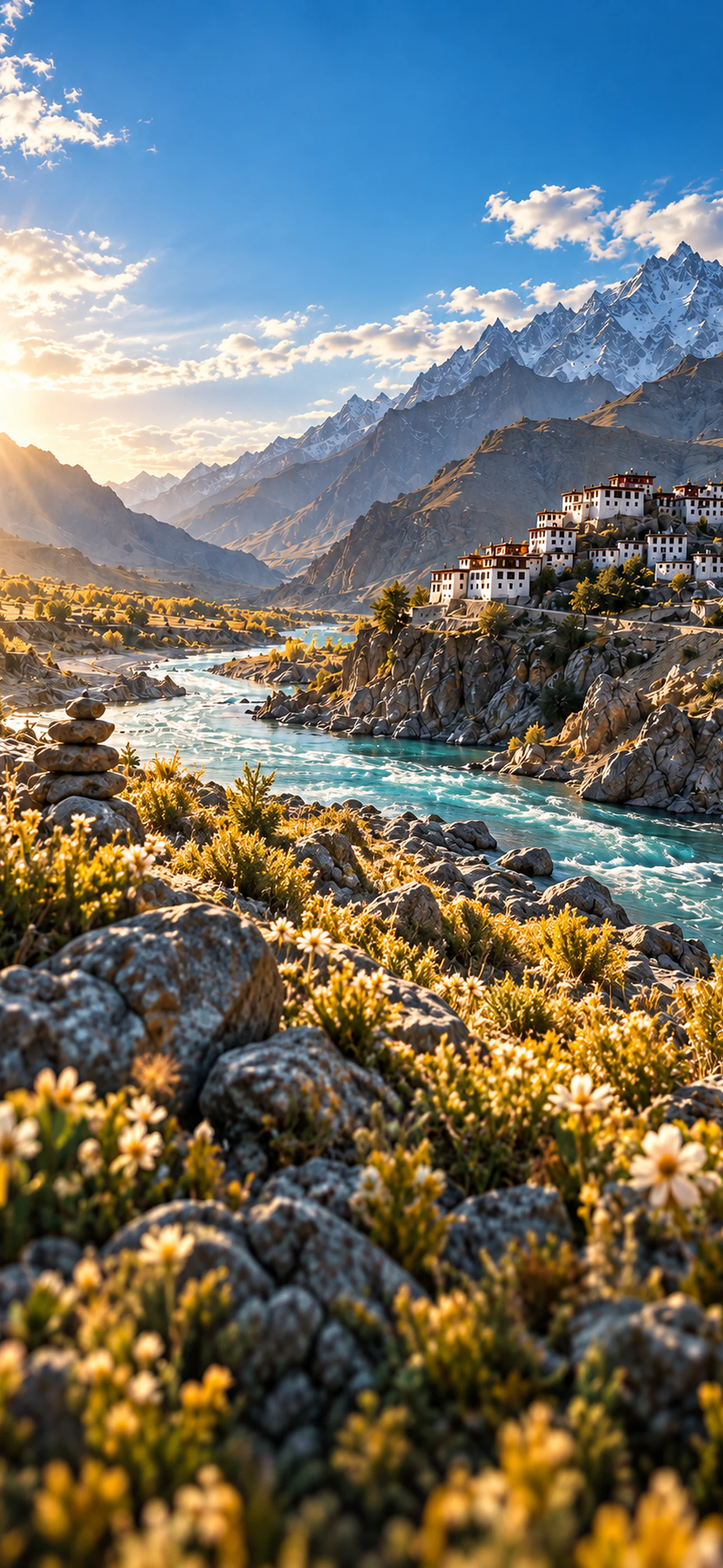
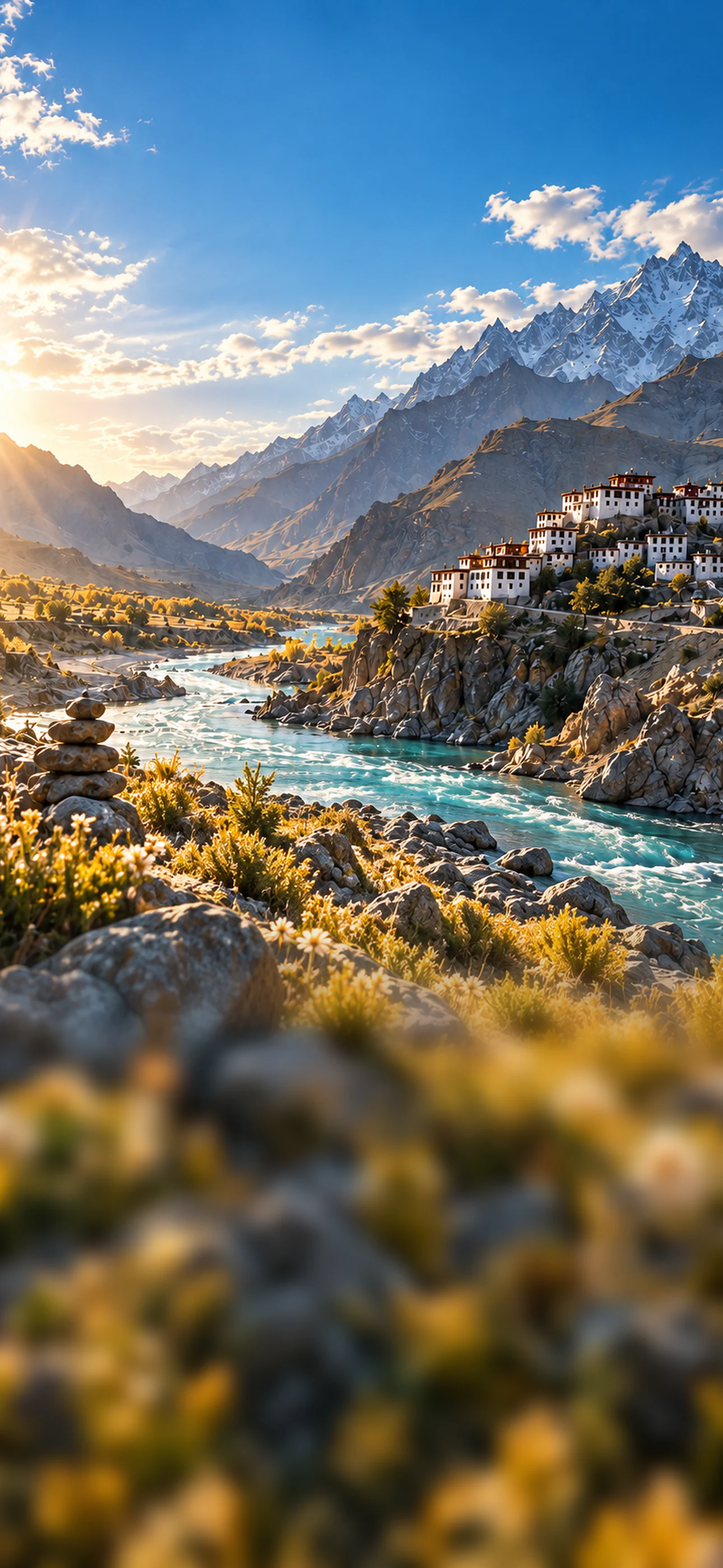
feat(home): real stone cairns and the goldens' depth of field
Cairns become lit, stacked stones instead of flat icons, and open days
match the golden's dashed outline. Home plates bake in the soft foreground
blur the goldens show behind the week row and cards.

Changed region(s): [[0.0, 0.5912, 1.0, 1.0], [0.4961, 0.9957, 0.5271, 1.0]]

diff --git a/src/features/home/today/Cairn.tsx b/src/features/home/today/Cairn.tsx
@@ -1,0 +1,84 @@
+import { useId } from 'react';
+import Svg, { Defs, Ellipse, G, RadialGradient, Stop } from 'react-native-svg';
+
+/** Stones from the base up, in a 40 x 40 box. Slightly off-axis, as a hand-built stack would be. */
+const STONES = [
+  { cx: 20, cy: 31.4, rx: 16.6, ry: 7.2 },
+  { cx: 19.6, cy: 21.2, rx: 11.6, ry: 5.2 },
+  { cx: 20.4, cy: 13.4, rx: 7.7, ry: 3.6 },
+  { cx: 20, cy: 7.4, rx: 4.5, ry: 2.9 },
+] as const;
+
+const SAND = [
+  { offset: 0, color: '#F3E4CF' },
+  { offset: 0.38, color: '#DEC4A5' },
+  { offset: 0.76, color: '#B99676' },
+  { offset: 1, color: '#7E5F47' },
+] as const;
+
+const OUTLINE = 'rgba(226,231,239,0.72)';
+const DASH = '5.2 2.6';
+
+function BuiltStack({ id }: { id: string }) {
+  return (
+    <>
+      <Defs>
+        {/* The light falls from upper left and is shared by every stone in the stack. */}
+        <RadialGradient id={`${id}s`} cx="36%" cy="24%" r="82%">
+          {SAND.map(({ offset, color }) => (
+            <Stop key={offset} offset={offset} stopColor={color} />
+          ))}
+        </RadialGradient>
+        <RadialGradient id={`${id}g`} cx="50%" cy="50%" r="50%">
+          <Stop offset="0" stopColor="#02060D" stopOpacity={0.62} />
+          <Stop offset="1" stopColor="#02060D" stopOpacity={0} />
+        </RadialGradient>
+        <RadialGradient id={`${id}c`} cx="50%" cy="50%" r="50%">
+          <Stop offset="0" stopColor="#3D2A1A" stopOpacity={0.55} />
+          <Stop offset="1" stopColor="#3D2A1A" stopOpacity={0} />
+        </RadialGradient>
+      </Defs>
+      <Ellipse cx={20.8} cy={36.6} rx={18.4} ry={3.2} fill={`url(#${id}g)`} />
+      {STONES.map((stone, index) => (
+        <G key={stone.cy}>
+          <Ellipse {...stone} fill={`url(#${id}s)`} />
+          {/* Each stone darkens where the next one rests on it, which is what gives the stack weight. */}
+          {index < STONES.length - 1 && (
+            <Ellipse
+              cx={STONES[index + 1]?.cx}
+              cy={stone.cy - stone.ry + 1.1}
+              rx={(STONES[index + 1]?.rx ?? 0) * 1.08}
+              ry={1.9}
+              fill={`url(#${id}c)`}
+            />
+          )}
+        </G>
+      ))}
+    </>
+  );
+}
+
+function OpenStack() {
+  return STONES.map((stone) => (
+    <Ellipse
+      key={stone.cy}
+      {...stone}
+      fill="none"
+      stroke={OUTLINE}
+      strokeWidth={1.25}
+      strokeDasharray={DASH}
+      strokeLinecap="round"
+    />
+  ));
+}
+
+/** A day of the week as a small stack of stones: built when completed, a dashed outline otherwise. */
+export function Cairn({ built, size }: { built: boolean; size: number }) {
+  // Ids must be unique per instance, and url(#...) cannot hold the colons React puts in useId.
+  const id = `cairn${useId().replaceAll(':', '')}`;
+  return (
+    <Svg width={size} height={size} viewBox="0 0 40 40" accessible={false}>
+      {built ? <BuiltStack id={id} /> : <OpenStack />}
+    </Svg>
+  );
+}

diff --git a/src/features/home/today/WeekRhythm.tsx b/src/features/home/today/WeekRhythm.tsx
@@ -2,7 +2,6 @@ import { StyleSheet, View } from 'react-native';
 import Svg, { Line } from 'react-native-svg';
 
 import { EchoText } from '@/components/EchoText';
-import { Icon } from '@/components/Icon';
 import { TrackedText } from '@/components/TrackedText';
 import { copy } from '@/content/copy';
 import { goldenCopy } from '@/content/goldenCopy';
@@ -10,11 +9,10 @@ import { useLayout } from '@/design/layout';
 import { useTheme } from '@/design/theme';
 import type { Rhythm } from '@/features/journal';
 
+import { Cairn } from './Cairn';
 import { homeLabels } from './homeLabels';
 
-const CAIRN_SIZE = 27;
-const CAIRN_DONE = '#EBD8BA'; // pale limestone, to match the stone above
-const CAIRN_OPEN = 'rgba(217,224,234,0.62)';
+const CAIRN_SIZE = 23;
 const LABEL_SIZE = 9.5;
 const TRAIL_INSET = 0.052; // of the row, so the trail stops short of each cairn
 const DAYS = 7;
@@ -81,11 +79,7 @@ export function WeekRhythm({ rhythm, loading }: { rhythm: Rhythm; loading: boole
               .filter(Boolean)
               .join(', ')}
           >
-            <Icon
-              name={completed ? 'cairn-filled' : 'cairn-outline'}
-              size={CAIRN_SIZE}
-              color={completed ? CAIRN_DONE : CAIRN_OPEN}
-            />
+            <Cairn built={completed} size={CAIRN_SIZE} />
             <TrackedText
               text={weekday.toUpperCase()}
               tracking={1.9}

diff --git a/docs/SPEC_CONFLICTS.md b/docs/SPEC_CONFLICTS.md
@@ -12,7 +12,7 @@ call so the build can proceed. **Owner review** marks the ones Chirag should con
 | C-03 | The spec places the header at safe top + 12 pt. The goldens place it about 5 pt above the safe top. | Use the golden. Implemented once in `ScreenShell`. |
 | C-04 | Rule 6 says the CTA is always 345 pt wide. Landing's golden shows 316 pt. | Use the golden width on Landing only. The button's styling is now an owner decision: `docs/OWNER_DECISIONS.md`, D-002. |
 | C-05 | The handoff requires `ReadabilityScrim`. The later plate README says plates are fully graded and forbids runtime overlays. | No global scrim, grain, or overlay. If text needs help on a screen, use a local treatment. |
-| C-06 | Production plates sit 8–60 pt higher than the goldens place them, putting titles on clouds. | Plates are repositioned at build time from `scripts/plate-placement.json`, and existing sky tapers into the gap. **Owner review** |
+| C-06 | Production plates sit 8–60 pt higher than the goldens place them, putting titles on clouds. | Plates are repositioned at build time from `scripts/plate-placement.json`, and existing sky tapers into the gap. Home plates also bake in the goldens' depth of field below the scenery. **Owner review** |
 | C-07 | The button token is 16 pt and the CTA height is 56 pt. Goldens show labels matching the `label` token (13 pt, 2.4 tracking) and 52–54 pt height. | CTAs use the `label` token. Height stays 56 pt: a non-negotiable rule and a better tap target. |
 | C-08 | The CTA maximum width is 345 pt in the handoff and 382 pt in the responsive spec. | 345 pt at reference width, up to 382 pt on larger phones. |
 | C-09 | Rule 8 says Day and Night share one layout, but Day Home and Night Home are different compositions. Both Homes also show text missing from the copy deck. | Build both compositions as drawn. The plate README confirms this is deliberate. Extra text lives in `src/content/goldenCopy.ts`. **Owner review** |
